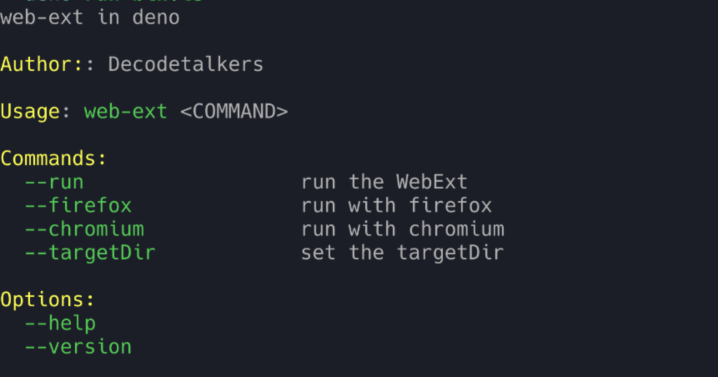
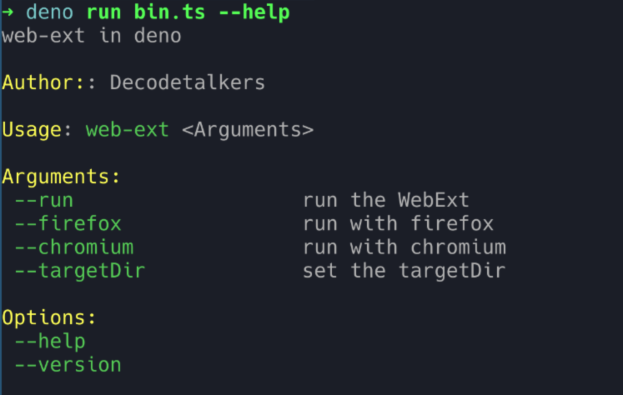
fix: not command but arguments

Changed region(s): [[0.0, 0.0, 0.5185, 1.0], [0.3965, 0.4668, 0.8234, 0.7294]]

diff --git a/mod.ts b/mod.ts
@@ -111,7 +111,7 @@ function helpArg(arg: Arg, key: string) {
     return;
   }
   console.log();
-  console.log(brightYellow("Commands:"));
+  console.log(brightYellow("Arguments:"));
   for (const [key, child] of Object.entries(arg.children)) {
     const pre = green(` --${key}`.padEnd(25, " "));
     const end = child.description;
@@ -153,18 +153,18 @@ function helpCommand(
     console.log(`${brightYellow("Author:")}: ${author}`);
     console.log();
   }
-  console.log(`${brightYellow("Usage")}: ${green(exeName)} <COMMAND>`);
+  console.log(`${brightYellow("Usage")}: ${green(exeName)} <Arguments>`);
   console.log();
-  console.log(brightYellow("Commands:"));
+  console.log(brightYellow("Arguments:"));
   for (const [key, child] of Object.entries(arg)) {
-    const pre = green(`  --${key}`.padEnd(25, " "));
+    const pre = green(` --${key}`.padEnd(25, " "));
     const end = child.description;
     console.log(pre + end);
   }
   console.log();
   console.log(brightYellow("Options:"));
-  console.log(green("  --help"));
-  console.log(green("  --version"));
+  console.log(green(" --help"));
+  console.log(green(" --version"));
 }
 
 /**
